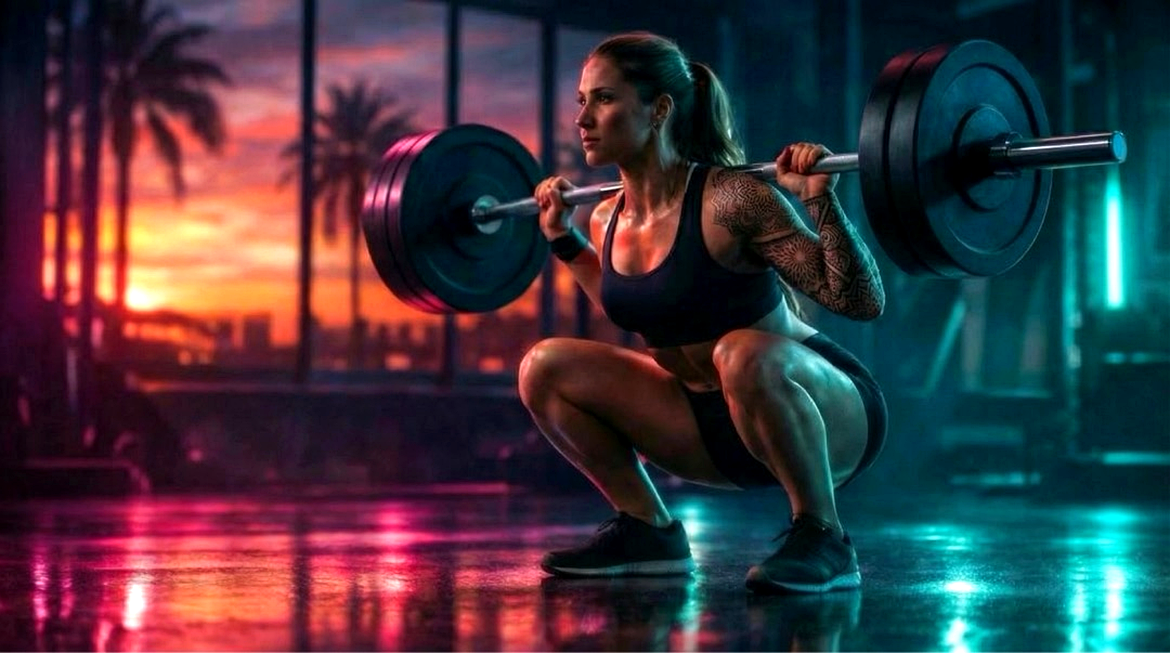
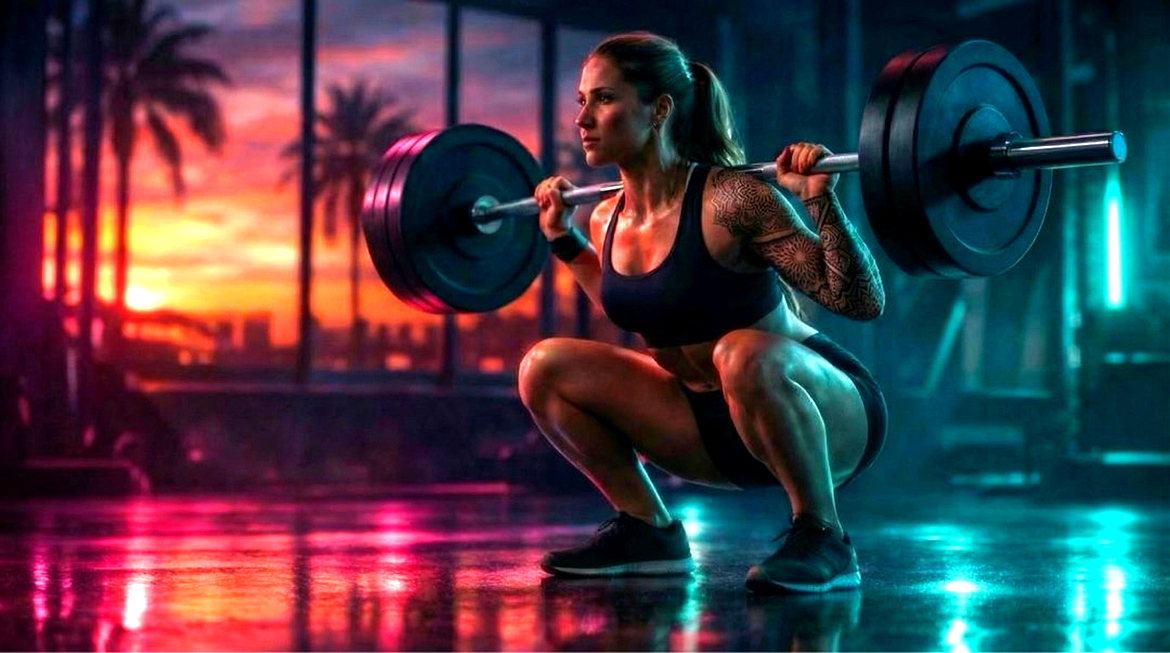
Mobile hero v2: brighter image, lighter gradient, larger text, tighter padding — matching Claude build

diff --git a/style.css b/style.css
@@ -2920,7 +2920,7 @@
   }
   .hero-bg img {
     object-fit: cover !important;
-    object-position: center 20% !important;
+    object-position: 50% 18% !important;
   }
 }
 
@@ -2931,65 +2931,111 @@
     min-height: 100svh;
     align-items: flex-end;
     padding-top: 0;
-    padding-bottom: var(--space-5);
+    padding-bottom: var(--space-4);
   }
+
+  /* Image: full brightness, centered, slightly zoomed for tighter crop */
   .hero-bg img {
-    object-position: center 10% !important;
+    object-position: 50% 18% !important;
     opacity: 1 !important;
-    transform: scale(1.08);
-    transform-origin: center 30%;
+    transform: scale(1.12);
+    transform-origin: center 25%;
   }
+
+  /* Gradient: minimal — image shows through behind ALL text, only buttons get darker */
   .hero-bg::after {
     background: linear-gradient(
       to top,
-      rgba(14,14,18,0.92) 0%,
-      rgba(14,14,18,0.55) 10%,
-      rgba(14,14,18,0.30) 25%,
-      rgba(14,14,18,0.12) 40%,
-      rgba(14,14,18,0.03) 52%,
-      transparent 62%
+      rgba(10,12,18,0.75) 0%,
+      rgba(10,12,18,0.35) 8%,
+      rgba(10,12,18,0.15) 20%,
+      rgba(10,12,18,0.05) 32%,
+      transparent 45%
     ) !important;
   }
+
+  /* Content: full width, no constraints */
   .hero-content {
     max-width: 100% !important;
     width: 100% !important;
-    padding: 0 var(--space-4) !important;
+    padding: 0 12px !important;
     margin: 0 !important;
   }
+
+  /* Headline: large and bold like the target */
   .hero h1 {
-    font-size: clamp(2.5rem, 9.5vw, 3.2rem) !important;
+    font-size: clamp(2.6rem, 10.8vw, 3.4rem) !important;
     font-weight: 900 !important;
-    line-height: 1.05 !important;
+    line-height: 1.08 !important;
     max-width: 100% !important;
-    text-shadow: 0 3px 16px rgba(0,0,0,0.8), 0 1px 4px rgba(0,0,0,0.6);
+    letter-spacing: -0.02em;
+    text-shadow:
+      0 2px 20px rgba(0,0,0,0.9),
+      0 1px 6px rgba(0,0,0,0.7),
+      0 0 40px rgba(0,0,0,0.4);
   }
+
   .hero-tagline {
     display: none;
   }
+
+  /* Bullet lines: larger text, strong shadows for readability over image */
   .hero-lines {
-    margin-top: var(--space-3);
+    margin-top: var(--space-2);
+    max-width: 100% !important;
   }
   .hero-line {
-    margin-bottom: var(--space-4);
+    margin-bottom: var(--space-3);
+    gap: var(--space-2);
   }
   .hero-lines p {
-    font-size: clamp(1rem, 4.2vw, 1.2rem);
+    font-size: clamp(1.05rem, 4.5vw, 1.25rem) !important;
     line-height: 1.45;
-    text-shadow: 0 1px 10px rgba(0,0,0,0.7), 0 1px 3px rgba(0,0,0,0.5);
+    text-shadow:
+      0 1px 12px rgba(0,0,0,0.8),
+      0 1px 4px rgba(0,0,0,0.6),
+      0 0 30px rgba(0,0,0,0.3);
   }
+  .hero-lines p strong {
+    text-shadow:
+      0 1px 12px rgba(0,0,0,0.8),
+      0 1px 4px rgba(0,0,0,0.6);
+  }
+
+  /* Icons: slightly larger with stronger backdrop */
   .hero-line-icon {
-    filter: drop-shadow(0 1px 4px rgba(0,0,0,0.5));
+    width: 32px !important;
+    height: 32px !important;
+    filter: drop-shadow(0 1px 6px rgba(0,0,0,0.6));
+    background: rgba(30, 200, 176, 0.18) !important;
   }
+  .hero-line-icon svg {
+    width: 18px !important;
+    height: 18px !important;
+  }
+  .hero-line-icon--pink {
+    background: rgba(240, 68, 138, 0.18) !important;
+  }
+  .hero-line-icon--purple {
+    background: rgba(155, 111, 212, 0.18) !important;
+  }
+
+  /* CTAs */
   .hero-ctas {
-    margin-top: var(--space-5);
+    margin-top: var(--space-4);
   }
   .hero-ctas .btn {
-    font-size: var(--text-sm);
+    font-size: 0.9rem;
     text-shadow: none;
+    padding: 0.75rem 1.5rem;
+  }
+  .hero-ctas .btn-primary {
+    font-size: 1rem;
+    padding: 0.85rem 2rem;
   }
   .hero-ctas .btn-secondary {
     width: 100%;
-    max-width: 320px;
+    max-width: 380px;
   }
 }
 
